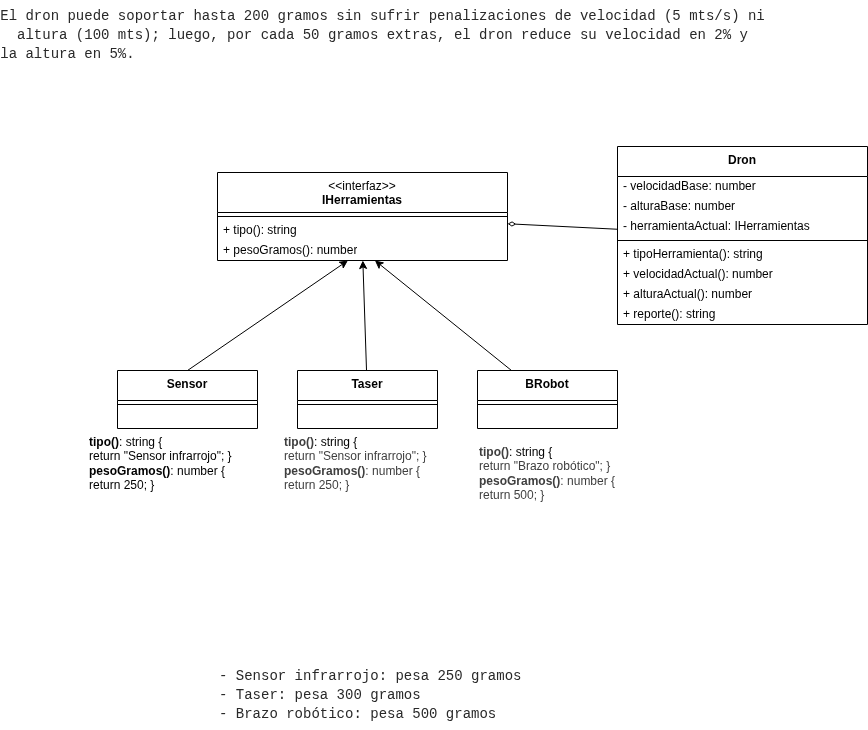
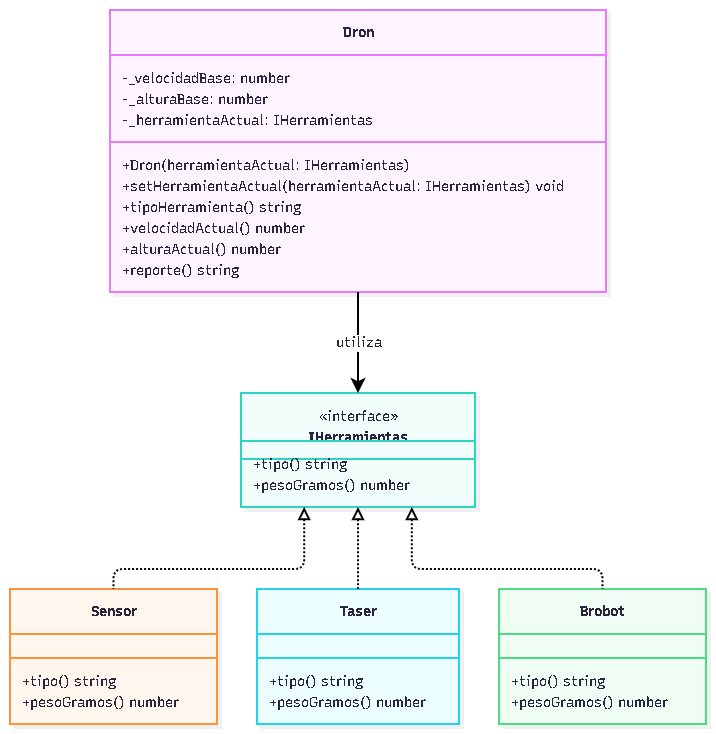
Subimos los cambios del EJ14

diff --git a/ejercicios/01EJ14/01EJ14.md b/ejercicios/01EJ14/01EJ14.md
@@ -1,3 +1,7 @@
+# EJ14 — Dron y herramientas intercambiables
+
+## Enunciado original
+
 14. Una empresa de seguridad que se dedica a la vigilancia mediante el empleo de drones, ha desarrollado un sistema de montaje que permitirá que los drones puedan cargar, además de la cámara de vigilancia, una herramienta accionable a distancia.
 
 **Actualmente el sistema de anclaje admite:**
@@ -13,3 +17,66 @@ Analizar, diseñar, diagramar las relaciones e implementar el código.
 Crear instancias de cada una de las clases y asignarle al dron las distintas herramientas, procurando mostrar por pantalla los siguientes datos entre las distintas asignaciones:
 
 velocidad, altura y tipo de herramienta que lleva.
+
+---
+
+## Diagrama de clases UML — implementación TypeScript
+
+```mermaid
+classDiagram
+    class Dron {
+        -_velocidadBase: number
+        -_alturaBase: number
+        -_herramientaActual: IHerramientas
+        +Dron(herramientaActual: IHerramientas)
+        +setHerramientaActual(herramientaActual: IHerramientas) void
+        +tipoHerramienta() string
+        +velocidadActual() number
+        +alturaActual() number
+        +reporte() string
+    }
+
+    class IHerramientas {
+        <<interface>>
+        +tipo() string
+        +pesoGramos() number
+    }
+
+    class Sensor {
+        +tipo() string
+        +pesoGramos() number
+    }
+
+    class Taser {
+        +tipo() string
+        +pesoGramos() number
+    }
+
+    class Brobot {
+        +tipo() string
+        +pesoGramos() number
+    }
+
+    Dron --> IHerramientas : utiliza
+    IHerramientas <|.. Sensor
+    IHerramientas <|.. Taser
+    IHerramientas <|.. Brobot
+```
+
+## Análisis académico
+
+- **Dron** mantiene los valores base de velocidad (5 m/s) y altura (100 m), y utiliza una herramienta que puede reemplazarse mediante `setHerramientaActual()`.
+- **IHerramientas** define las operaciones `tipo()` y `pesoGramos()`. `Sensor`, `Taser` y `Brobot` implementan esa interfaz.
+- **Relación UML:** `Dron` se asocia con `IHerramientas`; las tres clases concretas tienen relaciones de realización con la interfaz. La herramienta se entrega en el constructor y puede intercambiarse después.
+- **Regla de cálculo:** hasta 200 g, no hay penalización. Por cada tramo de 50 g adicionales se descuenta un 2 % de la velocidad base y un 5 % de la altura base. Los tres pesos del enunciado son múltiplos exactos de 50 g por encima del límite.
+- La consigna solicita mostrar el tipo de herramienta, la velocidad y la altura después de cada cambio. Eso se realiza mediante `reporte()`.
+
+## Resultados esperados — sin ejecutar el programa
+
+| Herramienta | Peso | Tramos adicionales | Velocidad final | Altura final |
+|---|---:|---:|---:|---:|
+| Sensor infrarrojo | 250 g | 1 | 4,9 m/s | 95 m |
+| Taser | 300 g | 2 | 4,8 m/s | 90 m |
+| Brazo robótico | 500 g | 6 | 4,4 m/s | 70 m |
+
+> **Nota:** Los diagramas históricos `01EJ14.dio` y `01EJ14.png` se conservan sin modificaciones. Este Markdown documenta la implementación TypeScript revisada.
